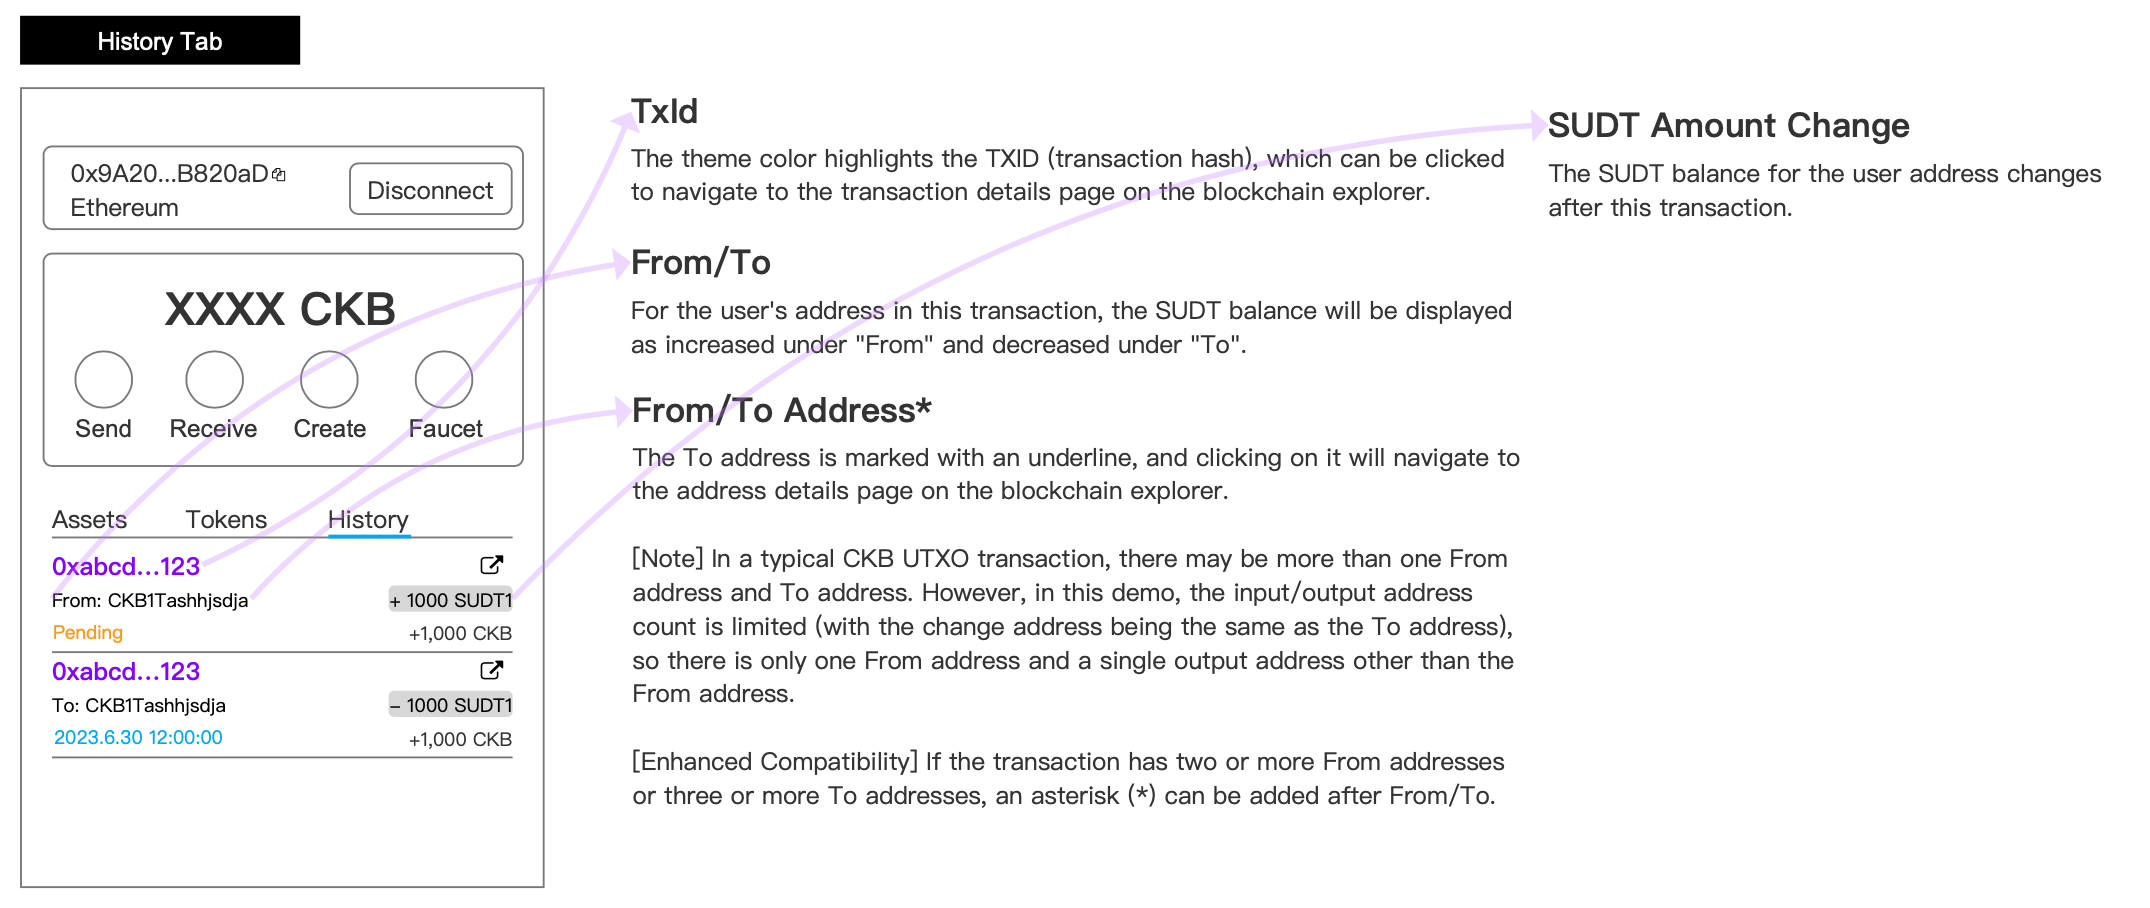
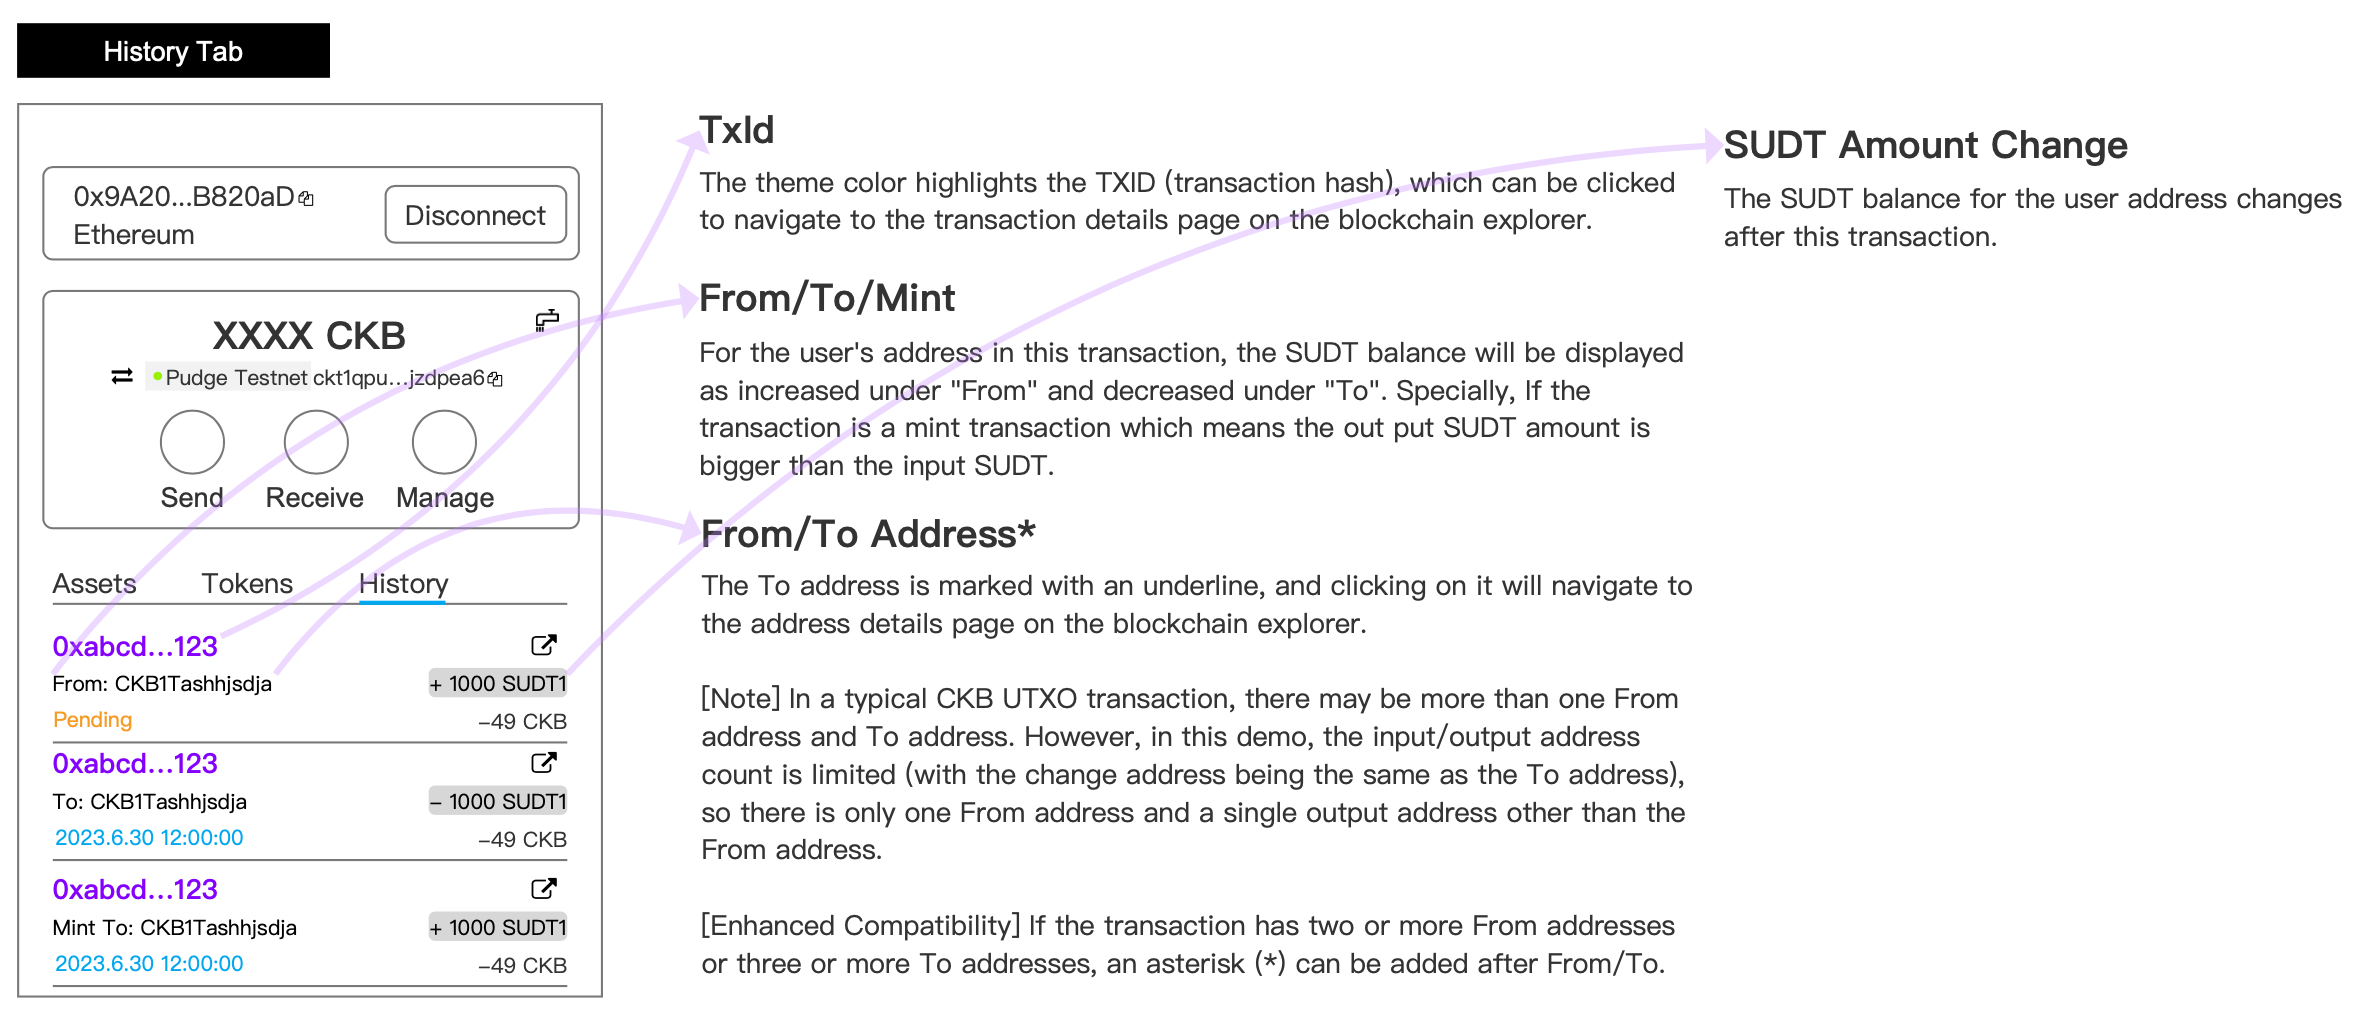
modify based on meeting notes.

Changed region(s): [[0.0, 0.0925, 0.9972, 0.9868], [0.0, 0.0, 0.2493, 0.1233]]

diff --git a/docs/PRD/user_story.md b/docs/PRD/user_story.md
@@ -14,7 +14,7 @@ The second demo of Kuai is a sudt dapp which allows a Token Minter to mint/manag
 ### Login
 Users need to connect to the site by Metamask in order to log in and use this SUDT management tool.
 
-![picture 18](pic/LogInFlowChart.png)  
+![pic 1](pic/LogInFlowChart.png)  
 
 
 1. Click the "Connect to Metamask" button on the login page;
@@ -22,6 +22,11 @@ Users need to connect to the site by Metamask in order to log in and use this SU
 3. The current metamask account will be connected to this site automatically.
 
 > By default, the users will be connected to testnet, so there will be a Faucet link for them. New users who never create SUDT will be provided with the Create method; on the other hand, users who created SUDT will be provided with the Manage method.
+
+> After connecting the testnet at firt time , for a new account, the CKB balance will mostly be 0. Then a window will pop up to help claim Test CKB.
+
+![pic 2](pic/AutoFaucetWindow.png)  
+
 
 ### Root Page
 
@@ -32,13 +37,12 @@ After logging in, the user can check his assets.
 
 There are several parts in this page:
 
-<!-- 水龙头低于阈值,弹窗自动提示,facuet icon 可以考虑隐藏/换位置  -->
 
 1. Metamask Account display: This shows the account that user has connected to this site.
 2. Disconnect button: Click to disconnect current account, and back to home page.
 3. CKB balance: show the CKB balance of the corresponding ckb address of the ethereum format address. This value should update as quick as it can be.
 4. CKB network & address: Show the network the user is going to work on and the corresponding address of the ethereum format address on this network.
-5. Function Part: Privide 4 different functions that user can do with SUDT. And the 3rd function will change based on to which kind of address current wallet connect.
+5. Function Part: Privide 3 different functions that user can do with SUDT. And the 3rd function will change based on to which kind of address current wallet connect.
 6. Asset Tab: The defaut tab where users can view his ckb and SUDT balance.
 7. Tokens Tab: A Token List where display all the SUDT creadted by all users and of course the token minted by current user will display on the top.
 8. History Tab: Users can check all their transaction history of the current account.
@@ -50,9 +54,14 @@ User Functions of these parts.
 ![picture 20](pic/Switch%20Network.png)  
 
 
+
 - Choose to send/receive/create/manage SUDT
 
 #### Asset Tab
+
+![pic 6](pic/AssetTab.png)  
+
+
 Asset Tab shows all the tokens and assets the address contain.
 - CKB balance will show on the top of this list.
 - Asset Tab automaticly find the specific SUDT if current address mint, and show it behind CKB.
@@ -62,7 +71,8 @@ Asset Tab shows all the tokens and assets the address contain.
 
 Tokens Tab shows almost all the SUDT tokens in this case.Tokens tab here are subject to a whitelist. Only SUDTs created through this demo will be displayed under the Token tab list.
 
-![picture 22](pic/TokenTab.png)  
+![pic 7](pic/TokenTab.png)  
+
 
 1. Users need to turn on the Token detector to abtain all the SUDT tokens in this case.
 2. User can turn off the Token detector as well.
@@ -83,12 +93,14 @@ The historu tab show all transaction of current address including the pending tr
 
 ![picture 24](pic/HistoryTab.png)  
 
+
+
 - TXID
 
   The theme color highlights the TXID (transaction hash), which can be clicked to navigate to the transaction details page on the blockchain explorer.
-- From/To
+- From/To/Mint
 
-  For the user's address in this transaction, the SUDT balance will be displayed as increased under "From" and decreased under "To".
+  For the user's address in this transaction, the SUDT balance will be displayed as increased under "From" and decreased under "To". Specially, If the transaction is a mint transaction which means the out put SUDT amount is bigger than the input SUDT.
 - From/To Address*
 
   The To address is marked with an underline, and clicking on it will navigate to the address details page on the blockchain explorer.
@@ -107,7 +119,11 @@ The historu tab show all transaction of current address including the pending tr
 A new account usually dont have any other assets beyond CKB.
 Thus user can create his own SUDT here. And distribute the SUDT to a list of addresses.
 
-![picture 25](pic/CreateToken.png)  
+
+
+![pic 11](pic/CreateToken.png)  
+
+
 
 
 1. Click the create button on homepage
@@ -118,7 +134,9 @@ Thus user can create his own SUDT here. And distribute the SUDT to a list of add
 
 ### Send tokens
 
-![pic 0](pic/SendTokens.png)  
+![pic 13](pic/SendTokens.png)  
+
+
 
 
 There are two ways to get into the SUDT Transfer page.
@@ -133,7 +151,8 @@ There are two ways to get into the SUDT Transfer page.
 Click the receive button on Root Page or any token page will lead to the receiving Page.
 Copy the CKB address , and send it to Sender to promote the transaction.
 
-![picture 26](pic/ReceiveSUDT.png)  
+
+![pic 14](pic/ReceiveSUDT.png)  
 
 
 ### Manage User created SUDT
@@ -142,9 +161,9 @@ Token creater could manage the SUDT created by him/her for 2 ways:
 1. Modify the token information
 2. Mint more token to an address
 
-![picture 14](pic/2f493675c909782581e2c5d295be06b53ecb143325ac40da9d43f91786981a06.png)  
+![pic 15](pic/ManageToken.png)  
+ 
 
-<!-- CKBxxxx1 -> CKBxxxx2 Amount:1000 , Amount means the diff of this account in this tx.-->
 - Modify the token information
   
   Clicking Modify Info button on Manage Page or Tokens Tab on Root Page will lead to the information page. Modify the information and then click Confirm button.
@@ -154,8 +173,14 @@ Token creater could manage the SUDT created by him/her for 2 ways:
   Clicking Mint Button lead to the mint page.
 
 #### About Manage Page
-![picture 15](pic/2876104ae922f45c28745157c463468292a2003b77971701dfa57c928ec20288.png)  
+
+![pic 17](pic/ManagePage.png)  
+
 
 The Manage Page consists of 2 part: 
 - SUDT pannel: User could view/modify/mint his SUDT
 - SUDT Token history: shows all confirmed Transaction of this SUDT.
+  1. Tx ID: The Transaction ID. Click to jump to explorer.
+  2. Address1 -> Address2: Means SUDT is sent from Address1 to Address2
+  3. Time zone: If this tx is finished, then it will be the onchain time, if it's still pending, then it just show "Pending"
+  4. Amount: the amount of SUDT Address1 sent to Address2.
